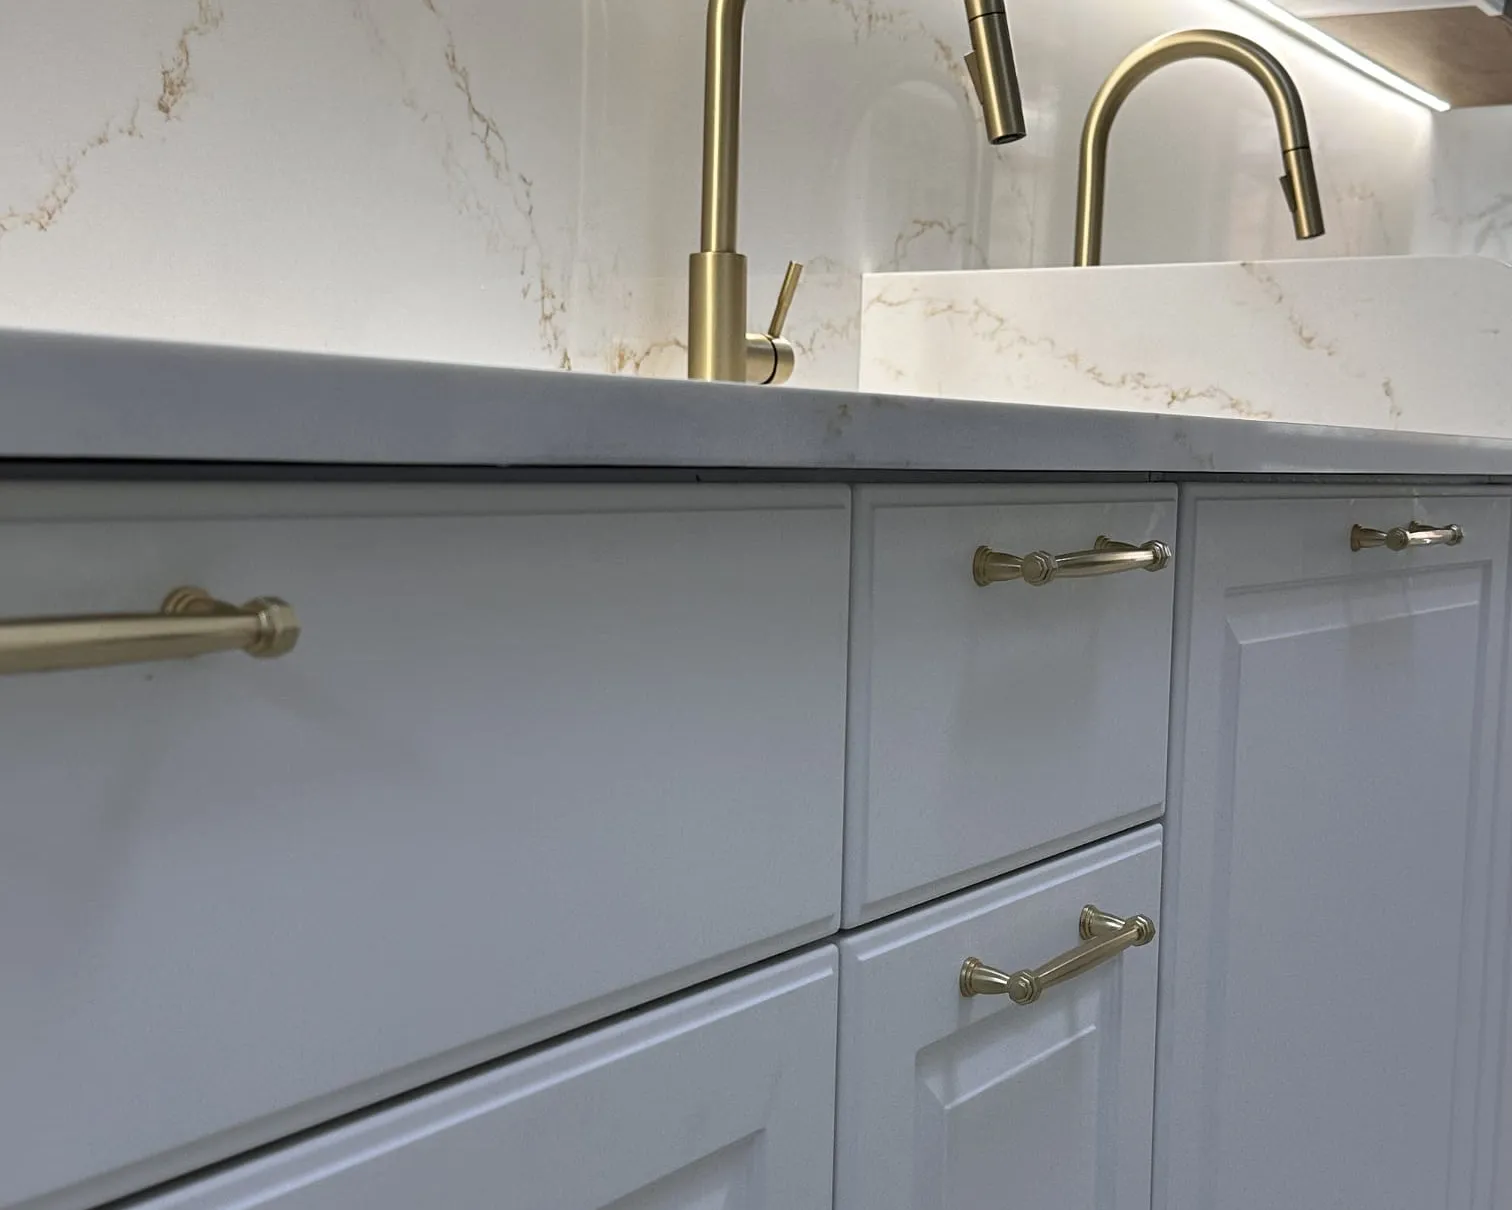
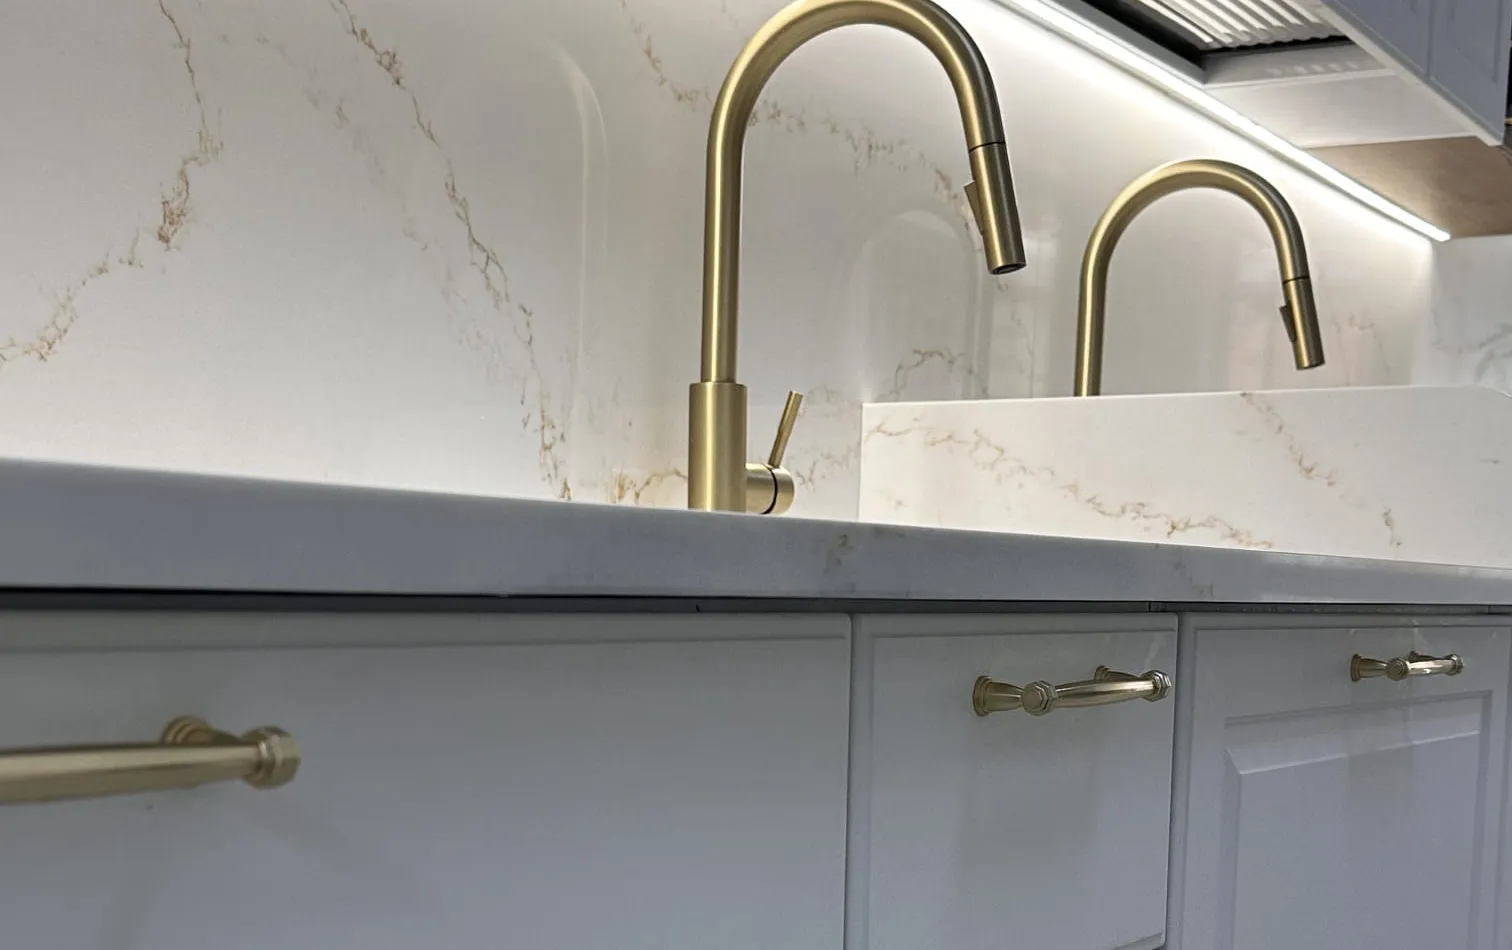
כפרי: תמונת הנקודות רחבה יותר (16:10, כמעט כל רוחב המסך)

diff --git a/lib/content.ts b/lib/content.ts
@@ -938,20 +938,21 @@ export const kitchenPages: Record<string, KitchenPageContent> = {
         ],
         hotspots: {
           /* ⚠ מכויל ל-rustic-hotspots.webp בלבד (29.10). תקריב הידיות
-             והברזים המוזהבים (IMG_8873), חתוך לפס לרוחב 5:4 (y 300-1510)
-             - דניאל: "אי אפשר לשים את התמונה הזו יותר לרוחב?". המיקומים
-             נקראו בפיקסלים מהמקור ותורגמו לאחוזי החיתוך.
-             ⚠ "חריטה כפרית" על מסגרת הדלת מימין: החריטה במגירה השמאלית
-             שסומנה נמצאת מתחת לחיתוך. */
+             והברזים המוזהבים (IMG_8873), חתוך לפס 16:10 (y 170-1120) -
+             דניאל: "שהתמונה של הכפרי תמתח יותר לרוחב". הקשת של הברז
+             נשארת בפנים; פס רחב יותר חתך אותה. המיקומים נקראו בפיקסלים
+             מהמקור ותורגמו לאחוזי החיתוך.
+             ⚠ "ידית" על המגירה העליונה האמצעית ו"חריטה" על מסגרת הדלת
+             מימין: הידית והמגירה השמאלית שסומנו נמצאות מתחת לחיתוך. */
           image: "/images/rustic-hotspots.webp",
           alt: "חזיתות לבנות בחריטה עם ידיות פליז, ברזים מוזהבים ומשטח וחיפוי שיש בהיר",
-          ratio: 1512 / 1210,
+          ratio: 1512 / 950,
           whole: true,
           points: [
-            { x: 72.7, y: 79.8, label: "ידית בסגנון כפרי", pos: "top" },
-            { x: 81.7, y: 63.6, label: "חריטה כפרית", pos: "top" },
-            { x: 47.5, y: 14.4, label: "ברז יוקרתי תואם", pos: "bottom" },
-            { x: 17.1, y: 29.8, label: "משטח וחיפוי משיש", pos: "bottom" },
+            { x: 70.8, y: 72.3, label: "ידית בסגנון כפרי", pos: "top" },
+            { x: 82, y: 83.2, label: "חריטה כפרית", pos: "top" },
+            { x: 47.5, y: 32, label: "ברז יוקרתי תואם", pos: "bottom" },
+            { x: 17.1, y: 51.6, label: "משטח וחיפוי משיש", pos: "top" },
           ],
         },
       },

diff --git a/app/globals.css b/app/globals.css
@@ -6494,6 +6494,18 @@ a.footer__contact-link:hover {
   top: -3%;
   height: 106%;
 }
+/* ⚠ בלי תקרת ה-62rem של .khot--tall (29.10, דניאל: "תמתח יותר
+   לרוחב, כרגע זה קטן מאוד"). הגבול היחיד הוא גובה המסך (78vh) -
+   תמונה לרוחב נפתחת כמעט לכל הרוחב, ותמונה לאורך (שיש) נשארת
+   ממורכזת כמו שהייתה. */
+@media (min-width: 1100px) {
+  /* ⚠ גם השוליים חוזרים: כלל ה-62rem החליף אותם ב-auto, ובלי
+     השליליים הגוף רחב מהעמוד ברוחב שני ריפודים - נמדד 76px גלישה. */
+  .kpage__block--full .kpage__block-body:has(.khot--whole) {
+    max-width: none;
+    margin-inline: calc(-1 * var(--side-padding));
+  }
+}
 @media (max-width: 1100px) {
   .khot:not(.khot--tall) {
     height: auto;
